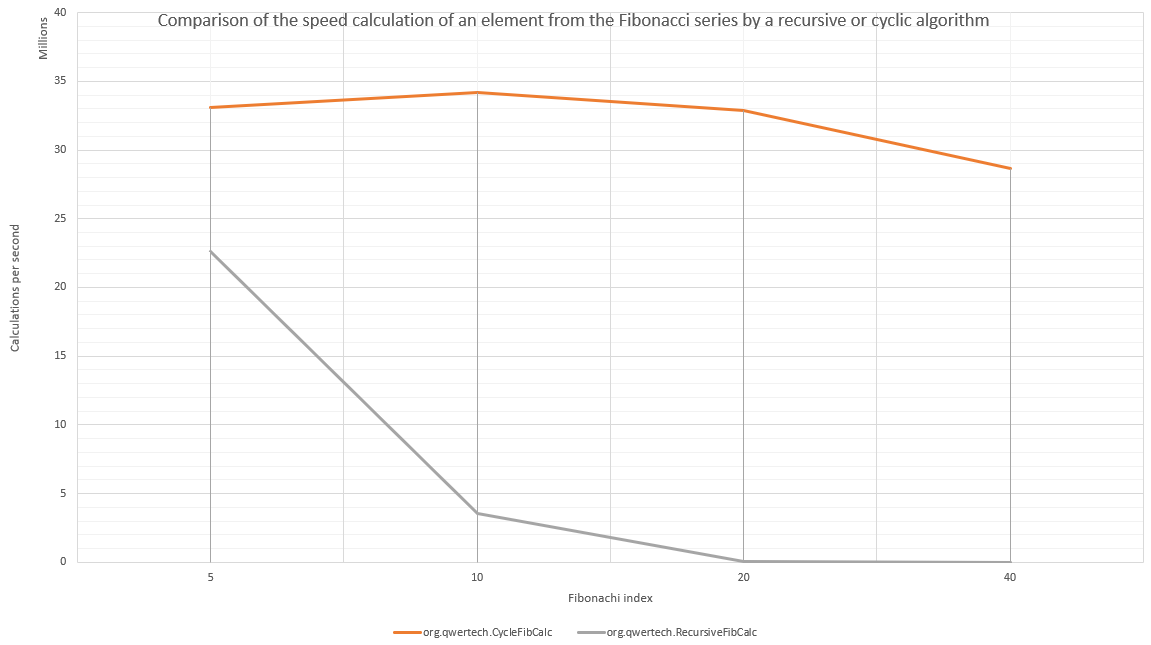
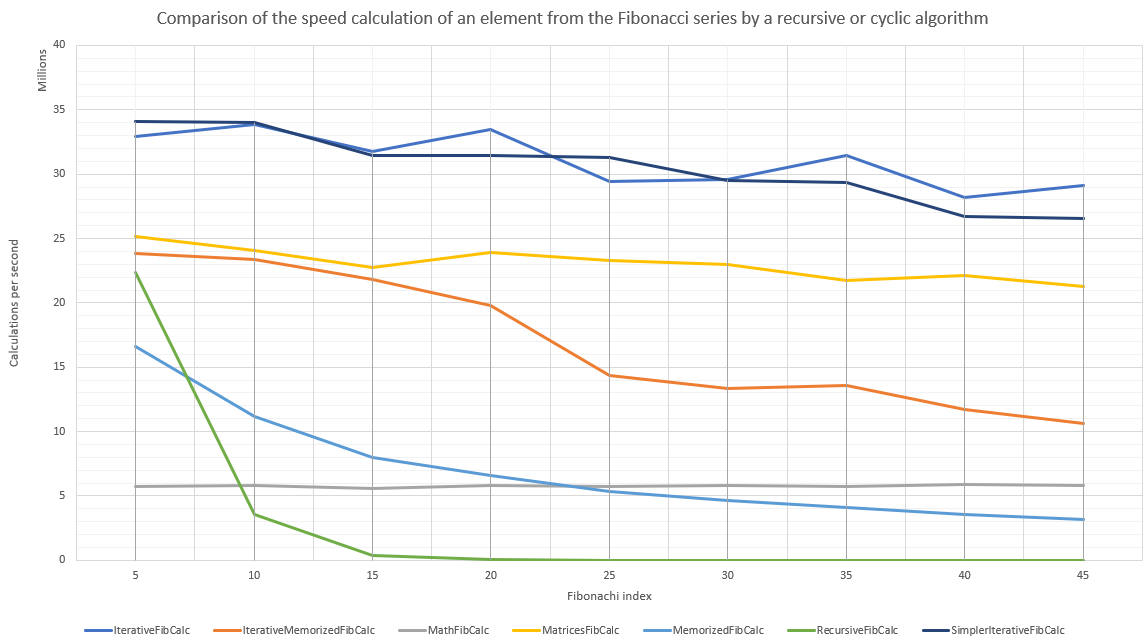
new benchmark results

diff --git a/README.md b/README.md
@@ -2,21 +2,76 @@
 Compare fibonacci calculation speed through cycle via recursive calculation and mesuare by JMH
 
 ### JMH execution log
-https://gist.github.com/QwerTech/0ddd3367685f4c62523317f6ee82521b
+https://gist.github.com/QwerTech/fe3371d8faf4cadcf5e0eb5f467cb2fb
 
 ### Benchmark results
 ![](https://github.com/QwerTech/fibonacci-benchmark/raw/master/graph.png)
 
-| calcClass | index | Mode | Cnt | Score | Error | Units |
-|---|---|---|---|---|---|---|
-| org.qwertech.CycleFibCalc | 5 | thrpt | 200 | 33129482.506 | ± 311934.001 | ops/s |
-|org.qwertech.CycleFibCalc| 10|thrpt|200|34182859.361|± 491875.643|ops/s|
-|org.qwertech.CycleFibCalc| 20|thrpt|200|32869043.734|± 403266.387|ops/s|
-|org.qwertech.CycleFibCalc| 40|thrpt|200|28663184.021|± 230258.141|ops/s|
-|org.qwertech.RecursiveFibCalc|5|thrpt|200|22652584.235|± 179932.003|ops/s|
-|org.qwertech.RecursiveFibCalc| 10|thrpt|200| 3566727.398|± 29306.560|ops/s|
-|org.qwertech.RecursiveFibCalc| 20|thrpt|200| 31807.095|± 128.767|ops/s|
-|org.qwertech.RecursiveFibCalc| 40|thrpt|200| 2.103|± 0.013|ops/s|
+|(calcClass)|(n)|Mode|Cnt|Score|Error|Units|
+|---|---:|---|---|---:|---:|---|
+|IterativeFibCalc|5|thrpt|200|32922755.456|± 704437.624|ops/s|
+|IterativeFibCalc|10|thrpt|200|33872599.934|± 572545.691|ops/s|
+|IterativeFibCalc|15|thrpt|200|31767376.851|± 467652.865|ops/s|
+|IterativeFibCalc|20|thrpt|200|33461058.956|± 208007.704|ops/s|
+|IterativeFibCalc|25|thrpt|200|29445740.302|± 384396.397|ops/s|
+|IterativeFibCalc|30|thrpt|200|29621950.976|± 364047.849|ops/s|
+|IterativeFibCalc|35|thrpt|200|31461916.694|± 298950.899|ops/s|
+|IterativeFibCalc|40|thrpt|200|28148454.798|± 324697.567|ops/s|
+|IterativeFibCalc|45|thrpt|200|29103050.817|± 234626.815|ops/s|
+|IterativeMemorizedFibCalc|5|thrpt|200|23848217.989|± 232683.591|ops/s|
+|IterativeMemorizedFibCalc|10|thrpt|200|23376884.822|± 206942.124|ops/s|
+|IterativeMemorizedFibCalc|15|thrpt|200|21844941.947|± 229856.023|ops/s|
+|IterativeMemorizedFibCalc|20|thrpt|200|19813268.842|± 164492.466|ops/s|
+|IterativeMemorizedFibCalc|25|thrpt|200|14384646.282|± 75023.355|ops/s|
+|IterativeMemorizedFibCalc|30|thrpt|200|13311986.274|± 126778.285|ops/s|
+|IterativeMemorizedFibCalc|35|thrpt|200|13554328.257|± 108160.331|ops/s|
+|IterativeMemorizedFibCalc|40|thrpt|200|11703545.757|± 57354.602|ops/s|
+|IterativeMemorizedFibCalc|45|thrpt|200|10654502.735|± 82188.154|ops/s|
+|MathFibCalc|5|thrpt|200|5697155.375|± 20701.829|ops/s|
+|MathFibCalc|10|thrpt|200|5842165.194|± 13096.589|ops/s|
+|MathFibCalc|15|thrpt|200|5613651.133|± 21650.002|ops/s|
+|MathFibCalc|20|thrpt|200|5804654.131|± 14441.019|ops/s|
+|MathFibCalc|25|thrpt|200|5711142.594|± 15743.773|ops/s|
+|MathFibCalc|30|thrpt|200|5797681.365|± 28054.111|ops/s|
+|MathFibCalc|35|thrpt|200|5709074.296|± 16623.798|ops/s|
+|MathFibCalc|40|thrpt|200|5858356.589|± 14007.745|ops/s|
+|MathFibCalc|45|thrpt|200|5830458.682|± 21038.151|ops/s|
+|MatricesFibCalc|5|thrpt|200|25173219.423|± 230221.678|ops/s|
+|MatricesFibCalc|10|thrpt|200|24045778.583|± 285293.325|ops/s|
+|MatricesFibCalc|15|thrpt|200|22755610.283|± 193421.277|ops/s|
+|MatricesFibCalc|20|thrpt|200|23924793.993|± 223819.710|ops/s|
+|MatricesFibCalc|25|thrpt|200|23265229.169|± 129653.861|ops/s|
+|MatricesFibCalc|30|thrpt|200|22969839.503|± 209556.968|ops/s|
+|MatricesFibCalc|35|thrpt|200|21709199.244|± 197358.835|ops/s|
+|MatricesFibCalc|40|thrpt|200|22097820.097|± 303837.466|ops/s|
+|MatricesFibCalc|45|thrpt|200|21310054.561|± 186448.184|ops/s|
+|MemorizedFibCalc|5|thrpt|200|16637499.315|± 165767.807|ops/s|
+|MemorizedFibCalc|10|thrpt|200|11195751.954|± 98563.347|ops/s|
+|MemorizedFibCalc|15|thrpt|200|7961352.432|± 137671.366|ops/s|
+|MemorizedFibCalc|20|thrpt|200|6576502.590|± 61995.241|ops/s|
+|MemorizedFibCalc|25|thrpt|200|5333555.745|± 33563.363|ops/s|
+|MemorizedFibCalc|30|thrpt|200|4607721.462|± 36263.344|ops/s|
+|MemorizedFibCalc|35|thrpt|200|4099034.486|± 34838.592|ops/s|
+|MemorizedFibCalc|40|thrpt|200|3569206.443|± 28257.265|ops/s|
+|MemorizedFibCalc|45|thrpt|200|3191943.446|± 18054.619|ops/s|
+|RecursiveFibCalc|5|thrpt|200|22325287.481|± 281845.687|ops/s|
+|RecursiveFibCalc|10|thrpt|200|3572492.892|± 20166.988|ops/s|
+|RecursiveFibCalc|15|thrpt|200|346025.012|± 1831.250|ops/s|
+|RecursiveFibCalc|20|thrpt|200|31828.818|± 135.066|ops/s|
+|RecursiveFibCalc|25|thrpt|200|2870.654|± 11.219|ops/s|
+|RecursiveFibCalc|30|thrpt|200|258.569|± 1.576|ops/s|
+|RecursiveFibCalc|35|thrpt|200|23.375|± 0.123|ops/s|
+|RecursiveFibCalc|40|thrpt|200|2.086|± 0.029|ops/s|
+|RecursiveFibCalc|45|thrpt|200|0.190|± 0.001|ops/s|
+|SimplerIterativeFibCalc|5|thrpt|200|34090872.766|± 632534.497|ops/s|
+|SimplerIterativeFibCalc|10|thrpt|200|34028111.738|± 400766.600|ops/s|
+|SimplerIterativeFibCalc|15|thrpt|200|31420989.141|± 258048.654|ops/s|
+|SimplerIterativeFibCalc|20|thrpt|200|31468231.689|± 204158.310|ops/s|
+|SimplerIterativeFibCalc|25|thrpt|200|31326771.774|± 350781.249|ops/s|
+|SimplerIterativeFibCalc|30|thrpt|200|29477202.895|± 198117.930|ops/s|
+|SimplerIterativeFibCalc|35|thrpt|200|29361013.452|± 174319.445|ops/s|
+|SimplerIterativeFibCalc|40|thrpt|200|26738105.576|± 269130.934|ops/s|
+|SimplerIterativeFibCalc|45|thrpt|200|26538235.777|± 247394.215|ops/s|
 
 ### Test enviroment
 |Item|Value|
